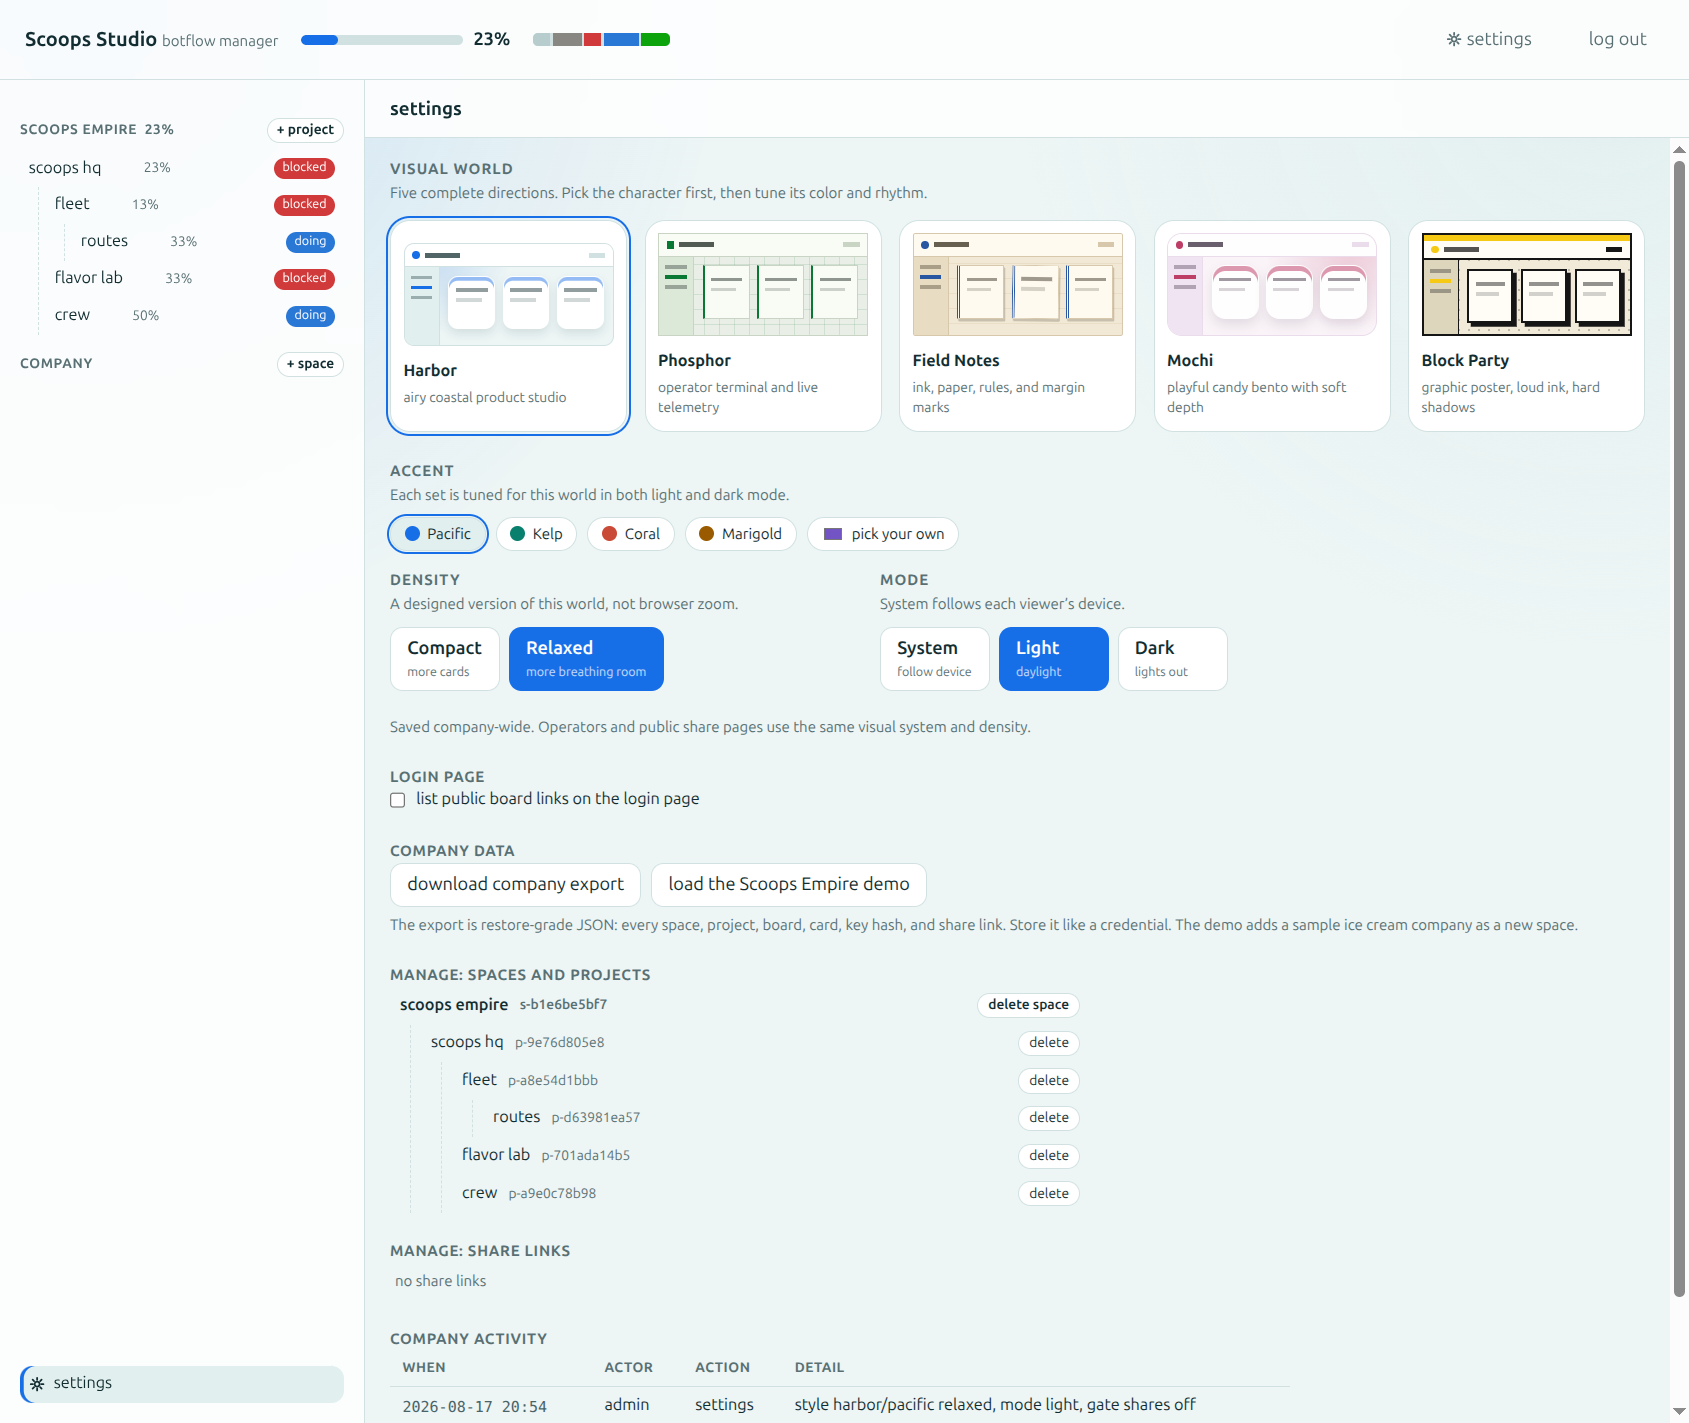
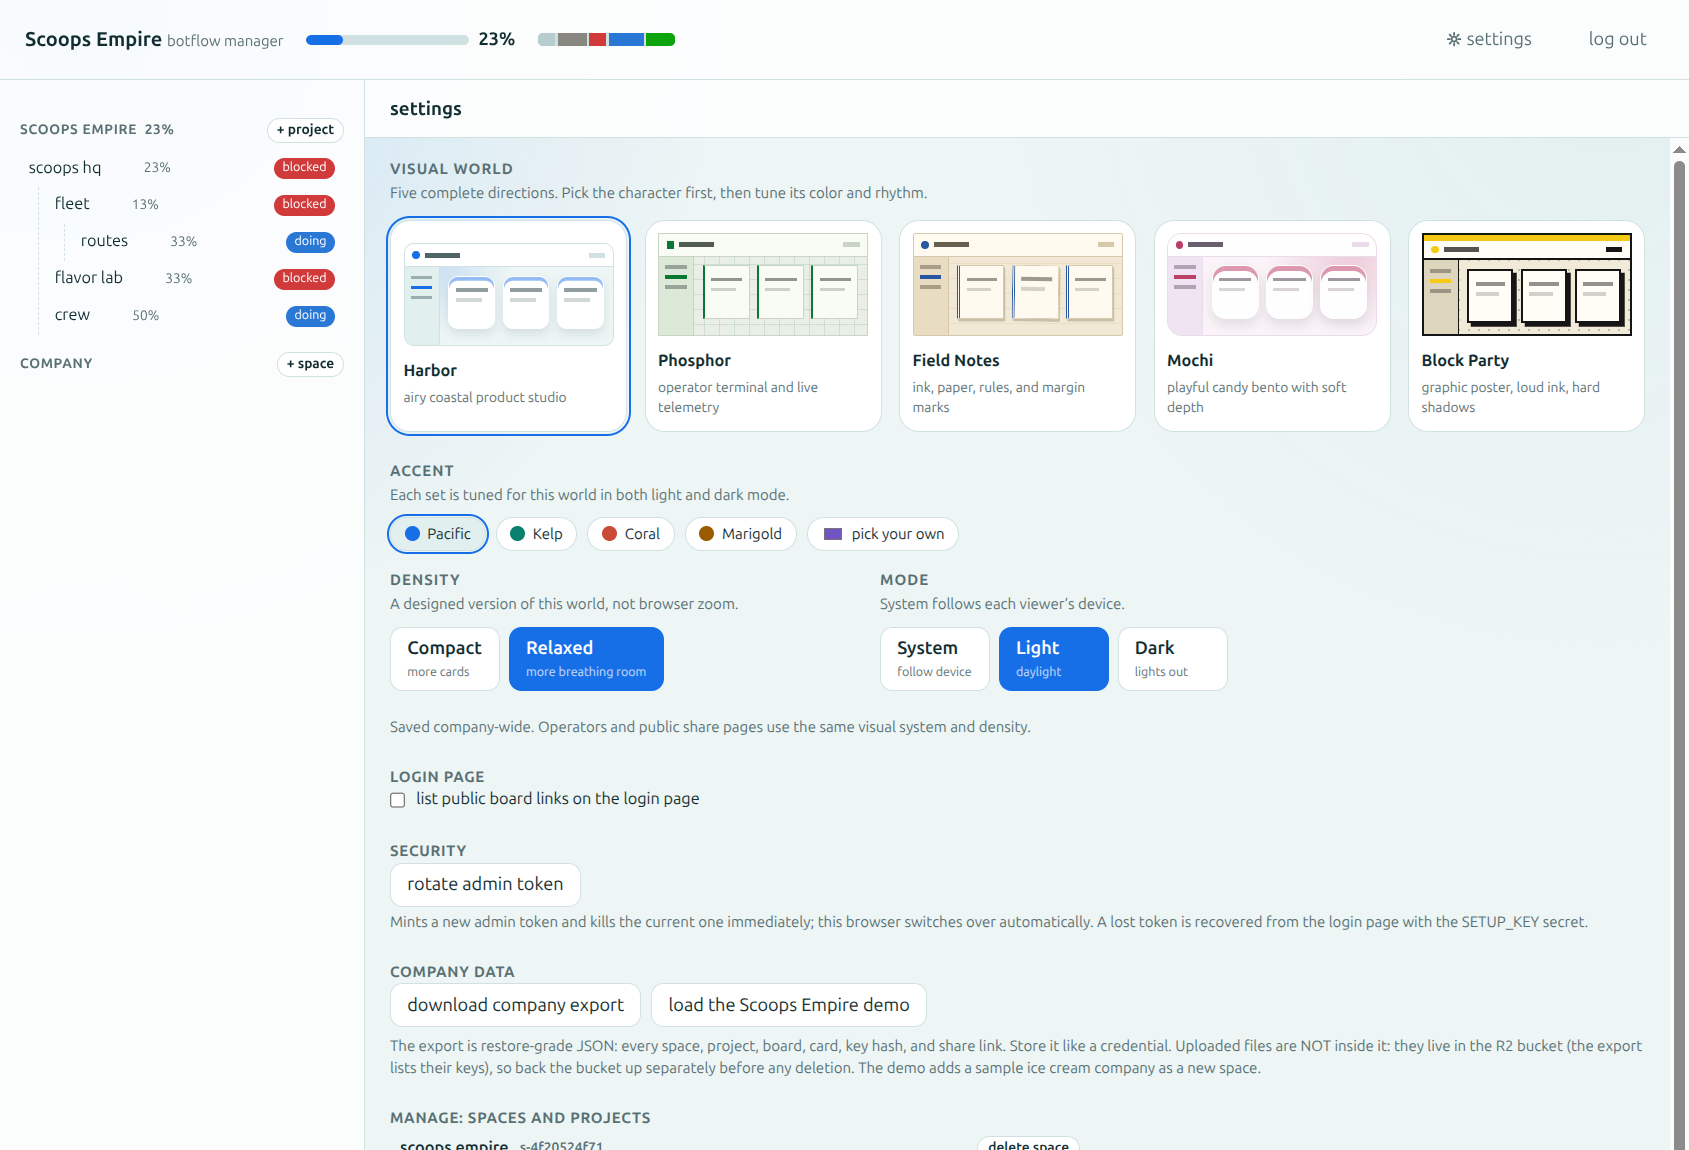
Fix second-pass review findings (card 022)
1. Detach only deletes R2 objects uploaded to the same card
   (/files/<pid>/<cid>/ prefix): detaching a reference to another
   project's file no longer destroys their object.
2. Sub-project creation compensates when the parent board rejects the
   project card (bad lane): the registry entry and DO are removed and
   the request fails with 400 instead of leaving an orphan.
3. Company export now carries an uploads manifest (key/size/type), and
   settings, delete confirms, and the README say plainly that bytes
   live in the bucket and need separate backup.
4. Screenshots retaken against the current UI; README MCP tool count
   corrected to 18. Reviewer's card 022 committed.

diff --git a/worker/src/index.ts b/worker/src/index.ts
@@ -39,6 +39,18 @@ export interface Env {
 const INLINE_TYPES = new Set(['image/png', 'image/jpeg', 'image/gif', 'image/webp', 'image/avif', 'application/pdf', 'text/plain']);
 const MAX_UPLOAD = 10 * 1024 * 1024;
 
+/** Every uploaded object's key/size/type: the export's uploads manifest. */
+async function listUploadManifest(bucket: R2Bucket): Promise<{ key: string; size: number; contentType: string | null }[]> {
+  const out: { key: string; size: number; contentType: string | null }[] = [];
+  let cursor: string | undefined;
+  for (;;) {
+    const batch = await bucket.list({ limit: 1000, ...(cursor ? { cursor } : {}) });
+    for (const o of batch.objects) out.push({ key: o.key, size: o.size, contentType: o.httpMetadata?.contentType ?? null });
+    if (!batch.truncated) return out;
+    cursor = batch.cursor;
+  }
+}
+
 const json = (value: unknown, status = 200): Response =>
   new Response(JSON.stringify(value, null, 2), { status, headers: { 'content-type': 'application/json' } });
 
@@ -385,6 +397,10 @@ export default {
             token: s.token, projectId: s.projectId, label: s.label, created: s.created, revoked: s.revoked,
             ...(s.cardId ? { cardId: s.cardId } : {}),
           })),
+          // Uploaded binaries stay in R2: the export carries a manifest of
+          // them, not the bytes. Back the bucket up separately; a restore
+          // into a bucket missing these keys has broken attachment links.
+          ...(env.ATTACHMENTS ? { uploads: await listUploadManifest(env.ATTACHMENTS) } : {}),
           spaces: await Promise.all(
             tree.spaces.map(async (s) => ({ name: s.name, projects: await Promise.all(s.projects.map(exportNode)) })),
           ),
@@ -521,11 +537,18 @@ export default {
         await project(res.id).ensureInit(body.name);
         // Projects can be cards: the sub-project appears as a project card in
         // the parent's board: one nesting mechanism, same as the file spec.
+        // If the parent card cannot be created (bad lane, say), the child
+        // registry entry must not survive as an orphan: compensate and fail.
         if (body.parent) {
-          await project(body.parent).addCard(
+          const cardRes = await project(body.parent).addCard(
             { title: body.name, type: 'board', boardPath: `project:${res.id}`, lane: body.lane },
             actorOf(body as Record<string, unknown>),
           );
+          if ('error' in cardRes) {
+            await registry.deleteProjectCascade(res.id, 'system');
+            await project(res.id).destroy().catch(() => {});
+            return json({ error: `parent board rejected the project card: ${cardRes.error}` }, 400);
+          }
         }
         return json(res);
       }
@@ -729,11 +752,14 @@ export default {
         if (req.method === 'POST' && action !== undefined) {
           const body = (await req.json().catch(() => ({}))) as Record<string, unknown>;
           // Detaching an uploaded file also drops the R2 object (best effort).
+          // Only objects uploaded to THIS card qualify: an attachment line can
+          // reference any URL, and detaching a reference to someone else's
+          // /files/ key must never delete their object.
           let uploadedUrl: string | null = null;
           if (action === 'detach' && env.ATTACHMENTS) {
             const detail = (await stub.card(cid)) as { parsed?: { attachments?: { index: number; url: string }[] } } | null;
             const att = detail?.parsed?.attachments?.find((a) => a.index === Number(body['index']));
-            if (att && att.url.startsWith('/files/')) uploadedUrl = att.url;
+            if (att && att.url.startsWith(`/files/${pid}/${cid}/`)) uploadedUrl = att.url;
           }
           const res = await stub.action(action, cid, body, actorOf(body));
           if ('error' in res) return json(res, 'conflict' in res ? 409 : 400);

diff --git a/test/worker.test.ts b/test/worker.test.ts
@@ -101,6 +101,14 @@ test('worker api: auth, scoping, restore, aggregation, deletion', { timeout: 180
     const childP = (await call('/api/projects', { method: 'POST', token: admin, body: JSON.stringify({ parent, name: 'child', lane: 'doing' }) })).body['id'] as string;
     const stranger = (await call('/api/projects', { method: 'POST', token: admin, body: JSON.stringify({ space, name: 'stranger' }) })).body['id'] as string;
 
+    // A sub-project whose parent card cannot be created must not survive as
+    // a registry orphan: the create compensates and fails whole.
+    const badLane = await call('/api/projects', { method: 'POST', token: admin, body: JSON.stringify({ parent, name: 'ghost', lane: 'no-such-lane' }) });
+    assert.equal(badLane.status, 400, 'invalid parent lane rejects the sub-project');
+    const orgTree0 = (await call('/api/org', { token: admin })).body as { spaces: { projects: { name: string; children: { name: string }[] }[] }[] };
+    const parentNode0 = orgTree0.spaces[0]!.projects.find((p) => p.name === 'parent')!;
+    assert.ok(!parentNode0.children.some((c) => c.name === 'ghost'), 'no orphan child in the org tree');
+
     // Agent key on parent; actor forgery must be impossible.
     const key = (await call(`/api/projects/${parent}/keys`, { method: 'POST', token: admin, body: JSON.stringify({ label: 'alpha-agent' }) })).body['token'] as string;
     const own = (await call(`/api/projects/${parent}/cards`, { method: 'POST', token: key, body: JSON.stringify({ title: 'Own task', actor: 'admin' }) })).body['id'] as string;
@@ -299,6 +307,14 @@ test('worker api: auth, scoping, restore, aggregation, deletion', { timeout: 180
     assert.equal((await fetch(U + evilUrl)).status, 404, 'detached upload is gone from storage');
     assert.equal((await call('/api/org', { token: admin })).body['uploads'], true, 'org advertises uploads');
 
+    // Detaching a REFERENCE to someone else's /files/ key must never delete
+    // their object: only same-card uploads are purged.
+    await call(`/api/projects/${stranger}/cards/001/attach`, { method: 'POST', token: admin, body: JSON.stringify({ url: upUrl, label: 'borrowed' }) });
+    const strangerCard = (await call(`/api/projects/${stranger}/cards/001`, { token: admin })).body as unknown as { parsed: { attachments: { index: number; url: string }[] } };
+    const borrowedIdx = strangerCard.parsed.attachments.find((a) => a.url === upUrl)!.index;
+    await call(`/api/projects/${stranger}/cards/001/detach`, { method: 'POST', token: admin, body: JSON.stringify({ index: borrowedIdx }) });
+    assert.equal((await fetch(U + upUrl)).status, 200, 'foreign object survives a cross-project detach');
+
     // Post-import the board holds 001 (own task) and 002 (sneak): scope to 001.
     const cardShare = (await call(`/api/projects/${parent}/shares`, { method: 'POST', token: admin, body: JSON.stringify({ label: 'one card', card: '001' }) })).body['token'] as string;
     assert.equal((await call(`/api/public/${cardShare}/cards/001`)).status, 200, 'the scoped card is visible');
@@ -318,6 +334,8 @@ test('worker api: auth, scoping, restore, aggregation, deletion', { timeout: 180
     const exported = (await call('/api/org/export', { token: admin })).body as Record<string, unknown>;
     assert.equal(exported['version'], 2);
     assert.ok(Array.isArray(exported['keys']) && (exported['keys'] as unknown[]).length === 1, 'keys exported');
+    const manifest = exported['uploads'] as { key: string }[];
+    assert.ok(manifest.some((u) => upUrl === `/files/${u.key}`), 'export manifests uploaded objects');
     await call('/api/settings', {
       method: 'POST', token: admin,
       body: JSON.stringify({ style: 'harbor', accent: 'pacific', mode: 'light', density: 'relaxed' }),

diff --git a/worker/src/ui.ts b/worker/src/ui.ts
@@ -1077,7 +1077,7 @@ function renderSettings(main){
     +'<h4 style="font-size:12px;color:var(--muted);text-transform:uppercase;letter-spacing:.05em;margin-top:22px">company data</h4>'
     +'<div style="display:flex;gap:8px;flex-wrap:wrap"><button id="orgexp">download company export</button>'
     +'<button id="demoload">load the Scoops Empire demo</button></div>'
-    +'<p style="color:var(--muted);font-size:12px;margin-top:6px">The export is restore-grade JSON: every space, project, board, card, key hash, and share link. Store it like a credential. The demo adds a sample ice cream company as a new space.</p>'
+    +'<p style="color:var(--muted);font-size:12px;margin-top:6px">The export is restore-grade JSON: every space, project, board, card, key hash, and share link. Store it like a credential. Uploaded files are NOT inside it: they live in the R2 bucket (the export lists their keys), so back the bucket up separately before any deletion. The demo adds a sample ice cream company as a new space.</p>'
     +'<h4 style="font-size:12px;color:var(--muted);text-transform:uppercase;letter-spacing:.05em;margin-top:22px">manage: spaces and projects</h4>'
     +'<div id="mtree" style="max-width:560px"></div>'
     +'<h4 style="font-size:12px;color:var(--muted);text-transform:uppercase;letter-spacing:.05em;margin-top:22px">manage: share links</h4>'
@@ -1136,11 +1136,11 @@ function renderSettings(main){
     const dp=e.target.closest('[data-delproj]');
     if(dp){const n=dp.dataset.name,c=Number(dp.dataset.count);
       confirmModal('Delete project',"Permanently deletes '"+esc(n)+"'"+(c>1?' and its '+(c-1)+' nested project(s)':'')
-        +': boards, cards, keys, and share links. No undo. Download a company export first if unsure.',
+        +': boards, cards, keys, share links, and uploaded files. No undo, and uploads are not inside the JSON export: back the bucket up separately if they matter.',
         'delete forever',async()=>{await api('/api/projects/'+dp.dataset.delproj,{method:'DELETE'});await start()});return}
     const dsp=e.target.closest('[data-delspace]');
     if(dsp){const n=dsp.dataset.name,c=Number(dsp.dataset.count);
-      confirmModal('Delete space',"Permanently deletes the space '"+esc(n)+"' and all "+c+" project(s) inside it: boards, cards, keys, and share links. No undo. Download a company export first if unsure.",
+      confirmModal('Delete space',"Permanently deletes the space '"+esc(n)+"' and all "+c+" project(s) inside it: boards, cards, keys, share links, and uploaded files. No undo, and uploads are not inside the JSON export: back the bucket up separately if they matter.",
         'delete forever',async()=>{await api('/api/spaces/'+dsp.dataset.delspace,{method:'DELETE'});await start()});return}
     const dsh=e.target.closest('[data-delsh]');
     if(dsh){await api('/api/shares/'+dsh.dataset.delsh,{method:'DELETE'});renderSettings(main);return}

diff --git a/README.md b/README.md
@@ -103,6 +103,9 @@ Binary attachment uploads are opt-in: create an R2 bucket and bind it as `ATTACH
 button; files land in R2, cards record a normal markdown attachment line pointing at
 `/files/…`, images join the gallery and cover art, and deleting a project purges its
 files. Without the binding everything else works and uploads simply stay hidden.
+Note that the company export carries a manifest of uploaded keys but not the bytes:
+back the bucket up separately (`wrangler r2 object get`, rclone, or dashboard tools)
+before deleting anything whose files you want to keep.
 
 The sync contract: your repo's documents are truth, and sync is a whole-board snapshot
 (last write wins). The hosted board is that snapshot plus a manager overlay: sub-projects
@@ -136,7 +139,7 @@ character, color, type, shape, and rhythm change together.
 | `test/fixtures/` | Golden boards; the spec's conformance vectors |
 | `src/core/` | Engine: parse → model → lint → project → rollup, pure ops |
 | `src/cli/` | The `botflow` CLI (incl. push/pull sync) |
-| `src/mcp/` | MCP server (stdio JSON-RPC, 13 tools) |
+| `src/mcp/` | MCP server (stdio JSON-RPC, 18 tools) |
 | `src/viewer/` | Read-only local board UI (`botflow serve`, `board --html`) |
 | `worker/` | Cloudflare manager: registry DO + project DOs + operator UI |
 | `templates/basic/` | Workspace template ("kanban batteries") |

diff --git a/.botflow/cards/022-second-pass-review-of-hardening-and-mana.md b/.botflow/cards/022-second-pass-review-of-hardening-and-mana.md
@@ -1,0 +1,16 @@
+---
+id: 022
+title: Second-pass review of hardening and manager feature series
+lane: done
+labels: [review, release]
+assignee: codex
+priority: p1
+created: 2026-08-17
+updated: 2026-08-18
+---
+## Log
+- 2026-08-17 23:15 codex: created in todo
+- 2026-08-17 23:15 codex: claimed, moved todo → doing
+- 2026-08-18 00:03 codex: Review complete: full suite and both typechecks pass; reproduced cross-project R2 deletion and orphaned sub-project creation; found restore export/upload gap and stale screenshots/docs count.
+- 2026-08-18 00:03 codex: closed: Second-pass review completed and findings prepared for handoff
+- 2026-08-18 00:18 claude: all four findings fixed: detach now only purges /files/<pid>/<cid>/ keys (cross-project detach e2e-proven harmless), sub-project creation compensates when the parent card is rejected (400, no orphan, e2e), org export carries an uploads manifest with bucket-backup warnings in settings/delete dialogs/README, screenshots retaken on a live Scoops instance (board with edit control, card modal with edit/share/task/upload affordances, settings with security section, phosphor dark compact) and MCP tool count corrected to 18
